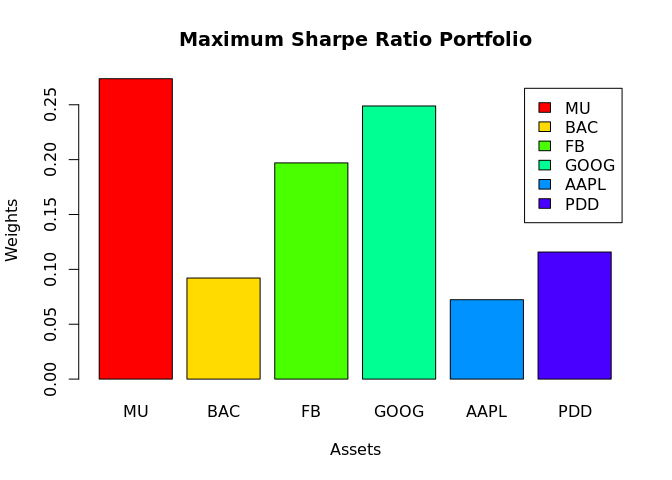
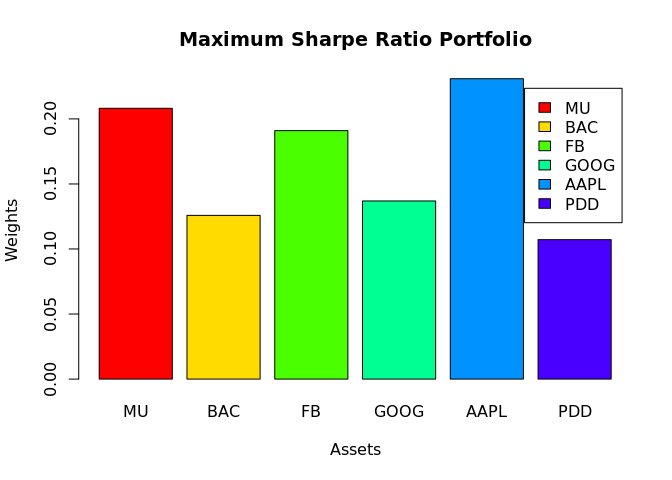
Update 3.0

diff --git a/README.md b/README.md
@@ -142,18 +142,18 @@ iterations:
 <!-- -->
 
     #> # A tibble: 1 x 9
-    #>      MU    BAC    FB  GOOG   AAPL   PDD   Return   Risk SharpeRatio
-    #>   <dbl>  <dbl> <dbl> <dbl>  <dbl> <dbl>    <dbl>  <dbl>       <dbl>
-    #> 1 0.274 0.0921 0.197 0.249 0.0723 0.116 0.000741 0.0132      0.0561
+    #>      MU   BAC    FB  GOOG  AAPL   PDD   Return   Risk SharpeRatio
+    #>   <dbl> <dbl> <dbl> <dbl> <dbl> <dbl>    <dbl>  <dbl>       <dbl>
+    #> 1 0.208 0.126 0.191 0.137 0.231 0.107 0.000728 0.0132      0.0550
 
 -   Maximum Sharpe Ratio Portfolio
 
 <!-- -->
 
     #> # A tibble: 1 x 9
-    #>      MU   BAC     FB  GOOG  AAPL    PDD   Return   Risk SharpeRatio
-    #>   <dbl> <dbl>  <dbl> <dbl> <dbl>  <dbl>    <dbl>  <dbl>       <dbl>
-    #> 1 0.134 0.172 0.0334 0.288 0.329 0.0429 0.000831 0.0137      0.0605
+    #>      MU   BAC     FB   GOOG  AAPL   PDD   Return   Risk SharpeRatio
+    #>   <dbl> <dbl>  <dbl>  <dbl> <dbl> <dbl>    <dbl>  <dbl>       <dbl>
+    #> 1 0.120 0.275 0.0132 0.0537 0.326 0.211 0.000831 0.0138      0.0603
 
 Finally, let’s visualize in a bar chart, the minimum variance portfolio
 for each asset, as well as the maximum sharpe ratio portfolio for each
@@ -162,6 +162,6 @@ asset.
 ![](README_files/figure-gfm/unnamed-chunk-13-1.png)<!-- -->![](README_files/figure-gfm/unnamed-chunk-13-2.png)<!-- -->
 
 **We can observe and mention some conclusions about the bar charts that
-for the stock “BAC” has a lot of weight in both bar charts, so we can
+for the stock “GOOG” has a lot of weight in both bar charts, so we can
 conclude that, according to our investment portfolio, it is wise to give
 a lot of weight to this asset.**
